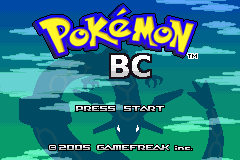
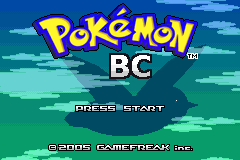
Title screen: a marbled murrelet in flight replaces Rayquaza
atlas/make_title_bird.py repaints the sky over the old silhouette, draws a
plump murrelet with raised wings in the silhouette colour (its eye uses the
pulsing marking colour) and re-tiles the background with flip-aware
de-duplication (83 tiles). Runs from upstream in build.sh.

Claude-Session: https://claude.ai/code/session_01RzxifVypgHi6nvfJBL29E3

Changed region(s): [[0.0583, 0.2812, 0.9333, 1.0]]

diff --git a/atlas/make_title_bird.py b/atlas/make_title_bird.py
@@ -1,0 +1,116 @@
+#!/usr/bin/env python3
+"""Title screen silhouette: a marbled murrelet in flight in place of Rayquaza.
+
+The title background is a 32x32 tilemap (graphics/title_screen/rayquaza.bin) over a 256-tile sheet
+(rayquaza.png). This composites the upstream picture, repaints the sky gradient over the old
+silhouette (the leftmost 16 columns hold clean sky), draws the murrelet in the silhouette colour
+(index 11) with its eye in the pulsing 'legendary marking' colour (index 15), then re-tiles: tiles
+are de-duplicated with flips, and every cell keeps its palette bits.
+
+Starts from upstream (needs the pret `upstream` remote), so it is idempotent.
+Run from the repo root: python3 atlas/make_title_bird.py [--preview out.png]
+"""
+import io
+import os
+import struct
+import subprocess
+import sys
+
+from PIL import Image, ImageDraw
+
+ROOT = os.path.dirname(os.path.dirname(os.path.abspath(__file__)))
+REL = 'graphics/title_screen/'
+SILHOUETTE, GLOW, WHITE = 11, 15, 2
+SS = 4  # supersampling for smooth edges
+
+
+def git_show(path):
+    return subprocess.run(['git', 'show', 'upstream/master:' + path], cwd=ROOT, capture_output=True, check=True).stdout
+
+
+sheet = Image.open(io.BytesIO(git_show(REL + 'rayquaza.png')))
+palette = sheet.getpalette()
+sp = sheet.load()
+cells = [struct.unpack('<H', git_show(REL + 'rayquaza.bin')[i * 2:i * 2 + 2])[0] for i in range(1024)]
+
+# Composite the upstream picture (256x256, palette indices).
+img = Image.new('P', (256, 256))
+img.putpalette(palette)
+px = img.load()
+for i, v in enumerate(cells):
+    t, hf, vf = v & 0x3ff, v >> 10 & 1, v >> 11 & 1
+    for y in range(8):
+        for x in range(8):
+            px[(i % 32) * 8 + x, (i // 32) * 8 + y] = sp[(t % 16) * 8 + (7 - x if hf else x), (t // 16) * 8 + (7 - y if vf else y)]
+
+# Repaint the sky over the visible screen from the clean left strip (keeps the gradient's dither).
+for y in range(160):
+    for x in range(16, 240):
+        px[x, y] = px[x % 16, y]
+
+# The murrelet, drawn at SS x scale: chunky alcid body, short slender bill, narrow pointed wings
+# raised in a V on the upstroke, short tail. Flying left to right, low over the water.
+W, H = 240 * SS, 160 * SS
+mask = Image.new('L', (W, H), 0)
+d = ImageDraw.Draw(mask)
+s = lambda pts: [(x * SS, y * SS) for x, y in pts]
+d.ellipse(s([(78, 96), (172, 136)]), fill=255)                          # plump body
+d.ellipse(s([(148, 86), (188, 124)]), fill=255)                         # round head
+d.polygon(s([(184, 100), (199, 105), (184, 110)]), fill=255)            # short bill
+d.polygon(s([(88, 110), (70, 112), (64, 119), (70, 126), (90, 128)]), fill=255)  # stubby tail
+d.polygon(s([(140, 104), (122, 84), (98, 66), (70, 54), (54, 50),       # near wing, raised back
+             (64, 62), (78, 80), (94, 98), (104, 116)]), fill=255)
+d.polygon(s([(132, 100), (150, 78), (170, 60), (192, 48), (206, 44),    # far wing, raised forward
+             (198, 58), (182, 76), (162, 96), (150, 108)]), fill=255)
+mask = mask.resize((240, 160), Image.LANCZOS)
+mp = mask.load()
+for y in range(160):
+    for x in range(240):
+        if mp[x, y] >= 128:
+            px[x, y] = SILHOUETTE
+# Eye: a pulsing glow pixel with a white glint, like Rayquaza's markings.
+px[175, 101] = GLOW
+px[176, 101] = GLOW
+px[175, 102] = GLOW
+px[176, 100] = WHITE
+
+# Re-tile with flip-aware de-duplication.
+def tile_at(i):
+    cx, cy = (i % 32) * 8, (i // 32) * 8
+    return tuple(px[cx + x, cy + y] for y in range(8) for x in range(8))
+
+
+def flips(t):
+    rows = [t[r * 8:r * 8 + 8] for r in range(8)]
+    h = tuple(p for r in rows for p in reversed(r))
+    v = tuple(p for r in reversed(rows) for p in r)
+    hv = tuple(p for r in reversed(rows) for p in reversed(r))
+    return [(t, 0, 0), (h, 1, 0), (v, 0, 1), (hv, 1, 1)]
+
+
+tiles, index, out = [], {}, []
+for i, v in enumerate(cells):
+    t = tile_at(i)
+    hit = next(((index[f], hf, vf) for f, hf, vf in flips(t) if f in index), None)
+    if hit is None:
+        index[t] = len(tiles)
+        tiles.append(t)
+        hit = (index[t], 0, 0)
+    tid, hf, vf = hit
+    out.append(tid | hf << 10 | vf << 11 | (v & 0xf000))
+if len(tiles) > 256:
+    sys.exit('make_title_bird: %d tiles, the sheet holds 256' % len(tiles))
+
+new = Image.new('P', (128, 128))
+new.putpalette(palette)
+np_ = new.load()
+for n, t in enumerate(tiles):
+    for k, p in enumerate(t):
+        np_[(n % 16) * 8 + k % 8, (n // 16) * 8 + k // 8] = p
+new.save(os.path.join(ROOT, REL, 'rayquaza.png'))
+with open(os.path.join(ROOT, REL, 'rayquaza.bin'), 'wb') as f:
+    f.write(b''.join(struct.pack('<H', v) for v in out))
+
+if '--preview' in sys.argv:
+    img.crop((0, 0, 240, 160)).convert('RGB').resize((480, 320), Image.NEAREST).save(sys.argv[sys.argv.index('--preview') + 1])
+print('title bird: murrelet silhouette in %d tiles' % len(tiles))

diff --git a/docs/STATE.md b/docs/STATE.md
@@ -29,11 +29,13 @@ The owner delegated all details (story, dialogue, names) to Claude: decide, buil
 - **Checks**: `node atlas/check_text.js` flags message lines over 208px and item description
   lines over 109px that differ from upstream; currently 0. `replace.js` rows can be scoped to one
   C variable.
+- **Title screen**: a marbled murrelet in flight replaces Rayquaza's silhouette, eye in the
+  pulsing marking colour (`atlas/make_title_bird.py`, `docs/title.png`).
 - **Post-game played**: `postgame.txt` (island tickets, `docs/postgame_desk.png`) and
   `survey.txt` (ISLAND CAVE survey note). Harness: `sb1poke`, `reset`, fresh save per run.
 
 **Known issues**
-- The DEEP COVE clash and title screen still use Groudon/Kyogre/Rayquaza shapes (P6 sprites).
+- The DEEP COVE clash still uses Groudon/Kyogre/Rayquaza overworld shapes (P6 sprites).
 - BATTLE FRONTIER, TRAINER HILL and TV text only had the automatic passes.
 - Learnsets are type-based, so a few organisms get odd moves (Morel Spore knows Tackle).
 - Elk, deer and caribou use the goat rig; sea lions and otters the seal rig (stand-ins).
@@ -41,9 +43,9 @@ The owner delegated all details (story, dialogue, names) to Claude: decide, buil
 
 ## Next three tasks
 
-1. Title screen: replace the Rayquaza silhouette with the marbled murrelet.
-2. P3: new coast and Interior tiles (arbutus, sagebrush, cannery, float homes).
-3. P6: overworld sprites for the legendaries (bear, reef, murrelet) in the DEEP COVE clash.
+1. P3: new coast and Interior tiles (arbutus, sagebrush, cannery, float homes).
+2. P6: overworld sprites for the legendaries (bear, reef, murrelet) in the DEEP COVE clash.
+3. P4: BATTLE FRONTIER, TRAINER HILL and TV text pass.
 
 ## Waiting on the owner
 

diff --git a/docs/TASKS.md b/docs/TASKS.md
@@ -12,7 +12,7 @@ Phases come from `docs/BC_PLAN.md`. Keep each task finishable in one session.
 - [x] Final Hoenn-to-BC place table in `atlas/locations.json` (towns, routes, landmarks)
 - [x] 202-entry BC roster list: slot, organism, habitat, life-stage lines (`docs/ROSTER.md`)
 - [x] Title chosen (Pokémon BC); new title logo
-- [ ] Title screen silhouette: Rayquaza to Marbled Murrelet
+- [x] Title screen silhouette: Marbled Murrelet in flight (`atlas/make_title_bird.py`, `docs/title.png`)
 
 ## P2 Roster
 - [x] `atlas/bc_species.json` (Living Atlas schema, `bc-` ids) for new BC species (148)
